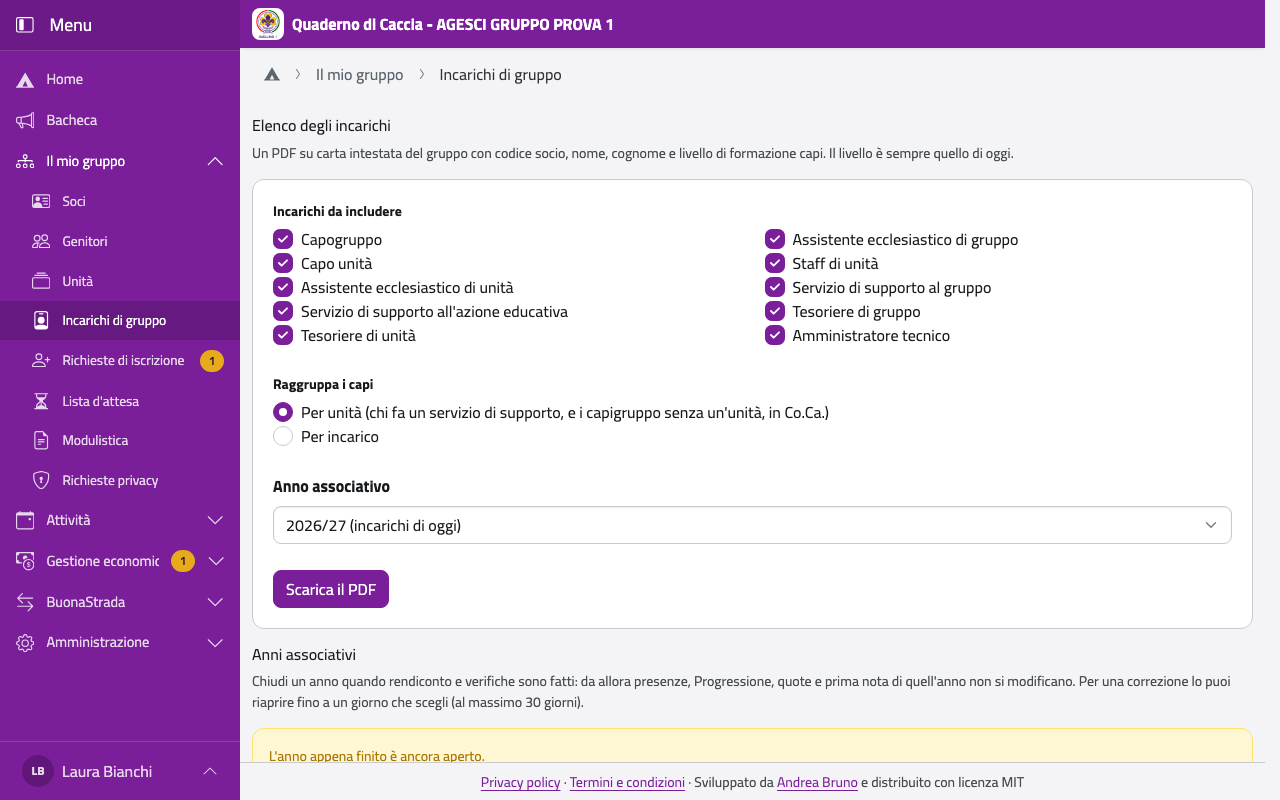
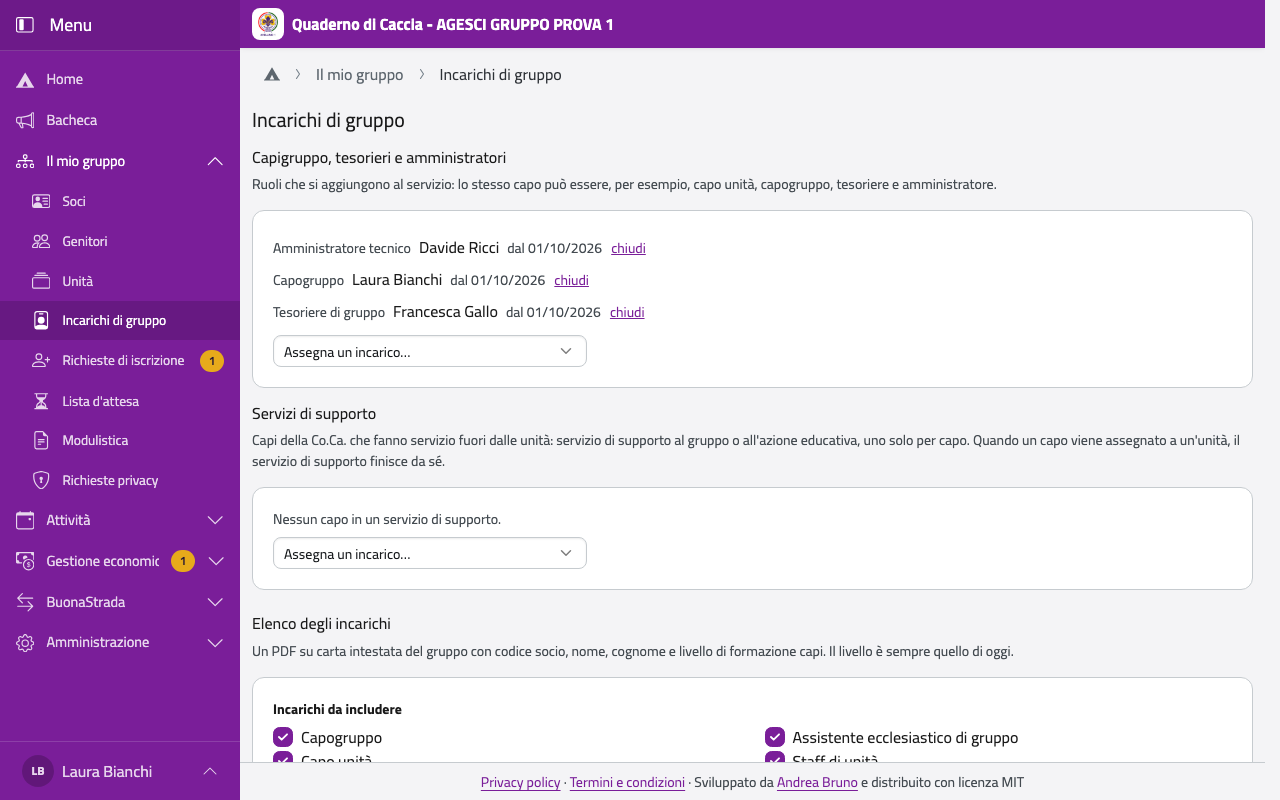
Roles list by unit: every capo in every section of their roles
Each role goes to its section, a unit's roles to the unit and the group's to the
Co.Ca., and a capo shows in every section where they hold a chosen role, with that
section's roles only; who has no service shows in the Co.Ca. too. DEC-284.

diff --git a/frontend/src/components/StampaIncarichi.vue b/frontend/src/components/StampaIncarichi.vue
@@ -56,7 +56,8 @@ const indirizzo = computed(() =>
       <div class="form-field">
         <input id="elenco-unita" v-model="raggruppa" type="radio" class="radio" value="unita" />
         <label for="elenco-unita">
-          Per unità (chi fa un servizio di supporto, e i capigruppo senza un'unità, in Co.Ca.)
+          Per unità (ogni capo in ogni unità in cui ha un incarico; gli incarichi di gruppo in
+          Co.Ca.)
         </label>
       </div>
       <div class="form-field">

diff --git a/backend/apps/organizzazione/elenco_incarichi.py b/backend/apps/organizzazione/elenco_incarichi.py
@@ -1,8 +1,8 @@
 """The list of the group's roles as PDF, for the capigruppo (DEC-284): never stored.
 
-The capigruppo choose the kinds of role and how to group the capi: by unit (the capi with
-a support service go to the Co.Ca., with the capigruppo and the group's assistente
-ecclesiastico who serve no unit) or by role. Each capo: codice socio, name, surname, training level
+The capigruppo choose the kinds of role and how to group the capi: by unit (each role in
+its unit, the group's roles in the Co.Ca.; a capo in every section of their roles) or by
+role. Each capo: codice socio, name, surname, training level
 (today's: the app keeps no history of it). Roles in force today, or at the end of a past
 associative year.
 """
@@ -23,7 +23,6 @@ from apps.core.stampa import decora_pagina, intestazione
 
 from .models import (
     INCARICHI_DI_SERVIZIO,
-    SERVIZIO_IN_UNITA,
     Gruppo,
     Incarico,
     RuoloIncarico,
@@ -116,6 +115,9 @@ def _per_incarico(scelti: list[str], incarichi: list[Incarico]) -> list[Sezione]
 
 
 def _per_unita(scelti: set[str], incarichi: list[Incarico]) -> list[Sezione]:
+    """Every role in its section: a unit's roles in that unit, the group's in the Co.Ca. A
+    capo shows in every section where they hold a chosen role, with that section's roles
+    only next to the name, even if that lists them more than once (maintainer, 03/11)."""
     per_persona: dict[int, list[Incarico]] = {}
     for incarico in sorted(incarichi, key=lambda i: RUOLI_ELENCO.index(i.ruolo)):
         per_persona.setdefault(incarico.persona_id, []).append(incarico)
@@ -124,30 +126,22 @@ def _per_unita(scelti: set[str], incarichi: list[Incarico]) -> list[Sezione]:
     coca = "coca"
     unita_di: dict[int, Unita] = {}
     for propri in per_persona.values():
-        # Shown only with at least one chosen role; next to the name only chosen roles.
-        if not any(i.ruolo in scelti for i in propri):
+        scelti_propri = [i for i in propri if i.ruolo in scelti]
+        if not scelti_propri:
             continue
-        servizi = [i for i in propri if i.ruolo in SERVIZIO_IN_UNITA]
-        aggiuntivi = [i for i in propri if i.ruolo not in SERVIZIO_IN_UNITA]
-        if servizi:
-            for unita_id in dict.fromkeys(i.unita_id for i in servizi):
-                del_servizio = [i for i in servizi if i.unita_id == unita_id]
-                unita = del_servizio[0].unita
-                unita_di[unita_id] = unita
-                etichette = [
-                    _etichetta(i, unita) for i in del_servizio + aggiuntivi if i.ruolo in scelti
-                ]
-                righe_di.setdefault(unita_id, []).append(Riga(propri[0].persona, etichette))
-        else:
-            # Capigruppo and the group's assistente ecclesiastico serving no unit, the
-            # capi with a support service (and anyone with only an additional role): the
-            # Co.Ca.
-            etichette = [_etichetta(i) for i in aggiuntivi if i.ruolo in scelti]
-            if not any(
-                i.ruolo in INCARICHI_DI_SERVIZIO | {RuoloIncarico.CAPOGRUPPO} for i in propri
-            ):
-                etichette.insert(0, SENZA_SERVIZIO)
-            righe_di.setdefault(coca, []).append(Riga(propri[0].persona, etichette))
+        persona = propri[0].persona
+        per_sezione: dict[object, list[str]] = {}
+        for i in scelti_propri:
+            if i.unita_id:
+                unita_di[i.unita_id] = i.unita
+                per_sezione.setdefault(i.unita_id, []).append(_etichetta(i, i.unita))
+            else:
+                per_sezione.setdefault(coca, []).append(_etichetta(i))
+        # No service at all (e.g. a unit treasurer only): in the Co.Ca. too (DEC-284).
+        if not any(i.ruolo in INCARICHI_DI_SERVIZIO | {RuoloIncarico.CAPOGRUPPO} for i in propri):
+            per_sezione.setdefault(coca, []).insert(0, SENZA_SERVIZIO)
+        for sezione, etichette in per_sezione.items():
+            righe_di.setdefault(sezione, []).append(Riga(persona, etichette))
 
     risultato = [
         Sezione(str(unita_di[u]), sorted(righe_di[u], key=lambda r: _ordine_persona(r.persona)))

diff --git a/backend/tests/test_elenco_incarichi.py b/backend/tests/test_elenco_incarichi.py
@@ -56,30 +56,59 @@ def _nomi(sezione):
     return [(r.persona.cognome, r.incarichi) for r in sezione.righe]
 
 
-def test_per_unita_la_coca_ha_capigruppo_senza_unita_e_capi_di_supporto(
+def test_per_unita_ogni_capo_in_ogni_sezione_dei_suoi_incarichi(
     capi, capo, capogruppo, reparto, coca
 ):
     sezioni = elenco.sezioni(TUTTI, "unita", date.today())
     assert [s.titolo for s in sezioni] == [str(reparto), str(coca)]
-    # The capogruppo serving the reparto is in the reparto, with the additional roles.
-    assert _nomi(sezioni[0]) == [
-        ("Capo", ["Capo unità"]),
-        ("Doppia", ["Staff di unità", "Capogruppo", "Tesoriere di gruppo"]),
-    ]
+    # The capogruppo serving the reparto is in both, with that section's roles only
+    # (maintainer, 03/11).
+    assert _nomi(sezioni[0]) == [("Capo", ["Capo unità"]), ("Doppia", ["Staff di unità"])]
     # The treasurer with no service shows the support service, in the PDF only.
     assert _nomi(sezioni[1]) == [
         ("Disponibile", ["Servizio di supporto al gruppo"]),
+        ("Doppia", ["Capogruppo", "Tesoriere di gruppo"]),
         ("Gruppo", ["Capogruppo"]),
         ("Tesoriera", ["Servizio di supporto al gruppo", "Tesoriere di gruppo"]),
     ]
 
 
 def test_per_unita_servizio_di_supporto_anche_se_non_scelto(capi, coca):
-    # Only the treasurers chosen: the treasurer with no service still shows it.
+    # Only the group treasurers chosen: who has no service still shows the support one.
     sezioni = elenco.sezioni({R.TESORIERE_GRUPPO}, "unita", date.today())
     assert _nomi(sezioni[-1]) == [
-        ("Tesoriera", ["Servizio di supporto al gruppo", "Tesoriere di gruppo"])
+        ("Doppia", ["Tesoriere di gruppo"]),
+        ("Tesoriera", ["Servizio di supporto al gruppo", "Tesoriere di gruppo"]),
     ]
+
+
+def test_per_unita_piu_unita_e_tesoriere_di_unita(gruppo, reparto, coca):
+    from apps.organizzazione.models import TipoUnita, Unita
+
+    branco = Unita.objects.create(
+        gruppo=gruppo, nome="Branco", tipo=TipoUnita.BRANCO, composizione=reparto.composizione
+    )
+    in_due = crea_capo("Ugo", "Doppiaunita", "ugo@example.invalid")
+    _incarico(in_due, R.STAFF, unita=reparto)
+    _incarico(in_due, R.CAPO_UNITA, unita=branco)
+    cassiere = crea_capo("Ivo", "Cassiere", "ivo@example.invalid")
+    _incarico(cassiere, R.TESORIERE_UNITA, unita=branco)
+    sezioni = {s.titolo: _nomi(s) for s in elenco.sezioni(TUTTI, "unita", date.today())}
+    # In both units; the unit treasurer with no service in the unit and in the Co.Ca.
+    assert sezioni[str(reparto)] == [("Doppiaunita", ["Staff di unità"])]
+    assert sezioni[str(branco)] == [
+        ("Cassiere", ["Tesoriere di unità"]),
+        ("Doppiaunita", ["Capo unità"]),
+    ]
+    assert sezioni[str(coca)] == [("Cassiere", ["Servizio di supporto al gruppo"])]
+
+
+def test_per_unita_capigruppo_in_coca_solo_se_scelti(capi, reparto, coca):
+    sezioni = elenco.sezioni({R.STAFF}, "unita", date.today())
+    assert [s.titolo for s in sezioni] == [str(reparto)]
+    sezioni = elenco.sezioni({R.STAFF, R.CAPOGRUPPO}, "unita", date.today())
+    assert [s.titolo for s in sezioni] == [str(reparto), str(coca)]
+    assert _nomi(sezioni[1]) == [("Doppia", ["Capogruppo"]), ("Gruppo", ["Capogruppo"])]
 
 
 def test_per_unita_solo_gli_incarichi_scelti(capi, reparto):

diff --git a/docs/analisi/analisi-requisiti.md b/docs/analisi/analisi-requisiti.md
@@ -416,7 +416,7 @@ Decisa con il maintainer il 31/10/2026: chi vuole entrare nel gruppo si mette in
 | DEC-281 | **Assistenti ecclesiastici**: due incarichi nuovi. L'**Assistente ecclesiastico di gruppo** è un incarico di gruppo, lo nominano i capigruppo, e ha i poteri di un capogruppo in ogni controllo (anche chiusura dell'anno, diritti degli interessati, impersonazione, nomine). L'**Assistente ecclesiastico di unità** è un incarico di servizio in un'unità, lo nominano il capo unità e i capigruppo, e vale come lo staff dell'unità. Entrambi spettano a un capo; BuonaStrada non esporta gli incarichi, quindi si inseriscono nell'app. Le email dirette ai capigruppo (riepiloghi, promemoria) restano ai capigruppo. | DEC-09, DEC-10, DEC-165, 02/11 |
 | DEC-282 | **Un genitore che diventa capo**: un capogruppo, dalla scheda del genitore, gli manda per email un link personale di iscrizione in Comunità capi (valido 30 giorni come quello della lista d'attesa, DEC-261), con già compilati i dati che l'app ha di lui: nome, cognome, data e comune di nascita, sesso, codice fiscale, indirizzo, cellulare, email. Il link vale solo per quel codice fiscale. La richiesta prosegue come le altre (DEC-120…DEC-127); accolta, il genitore entra in Comunità capi con la sua stessa scheda e resta genitore dei figli. Non vale per chi è già in Comunità capi né per chi non ha un'email. | DEC-120…DEC-127, DEC-261, 02/11 |
 | DEC-283 | **Banner per installare l'app**: su ogni browser che può installare la PWA (Chrome, Edge e Samsung Internet con il loro pulsante «Installa»; iPhone e iPad con le istruzioni di Condividi → Aggiungi alla schermata Home; Safari sul Mac con Archivio → Aggiungi al Dock; Firefox su Android con il menu → Installa) compare un banner, prima e dopo l'accesso. Non compare quando l'app è già aperta dalla sua icona. Si può chiudere: la chiusura si ricorda nel browser (solo la data, come il banner dei cookie, DEC-266) e dopo `QDC_BANNER_INSTALLAZIONE_GIORNI` giorni (di base 14, in `.env`) il banner può ricomparire. | DEC-105, DEC-266, 02/11 |
-| DEC-284 | **Elenco degli incarichi in PDF**, su carta intestata del gruppo (DEC-192), solo per i capigruppo. Si scelgono i tipi di incarico da includere e il raggruppamento: **per unità** (chi è a disposizione va in Co.Ca.; la Co.Ca. contiene solo i capigruppo e gli assistenti ecclesiastici di gruppo senza incarichi in un'unità, più i capi a disposizione; accanto al nome gli incarichi aggiuntivi, se il loro tipo è tra quelli scelti) oppure **per incarico**. Per ogni capo: codice socio, nome, cognome, livello di formazione capi; nessun contatto. Di base gli incarichi in corso oggi; scelto un anno associativo passato, quelli attivi alla sua fine (30 settembre). Il livello di formazione è sempre quello di oggi: l'app non ne tiene la storia. | DEC-165, DEC-192, DEC-281, 02/11 |
+| DEC-284 | **Elenco degli incarichi in PDF**, su carta intestata del gruppo (DEC-192), solo per i capigruppo. Si scelgono i tipi di incarico da includere e il raggruppamento: **per unità** (chi è a disposizione va in Co.Ca.; la Co.Ca. contiene solo i capigruppo e gli assistenti ecclesiastici di gruppo senza incarichi in un'unità, più i capi a disposizione; accanto al nome gli incarichi aggiuntivi, se il loro tipo è tra quelli scelti) oppure **per incarico**. Per ogni capo: codice socio, nome, cognome, livello di formazione capi; nessun contatto. Di base gli incarichi in corso oggi; scelto un anno associativo passato, quelli attivi alla sua fine (30 settembre). Il livello di formazione è sempre quello di oggi: l'app non ne tiene la storia. Precisato il 03/11: per unità ogni incarico sta nella sua sezione (quelli di unità nell'unità, quelli di gruppo in Co.Ca.); un capo compare in ogni sezione in cui ha un incarico scelto, anche più volte, con accanto al nome solo gli incarichi di quella sezione; chi non ha incarichi di servizio compare anche in Co.Ca. con «Servizio di supporto al gruppo» (DEC-293). | DEC-165, DEC-192, DEC-281, 02/11 |
 | DEC-285 | **Home a gruppi richiudibili**: ogni gruppo di voci della Home si apre e si chiude dal suo titolo; al più uno è aperto, e aprirne uno chiude gli altri. Bacheca e Calendario restano sempre visibili. L'app ricorda nel browser quale gruppo era aperto (solo il nome del gruppo, nessun dato personale); la prima volta sono tutti chiusi. Un gruppo chiuso mostra sul titolo il totale dei contatori delle sue voci. | DEC-241, 02/11 |
 | DEC-286 | **Calendario**: una pagina, accanto alla Bacheca nella Home e nel menu tra gli eventi, con gli eventi propri e dei figli, a scelta come mese o come elenco dei prossimi; un capo sceglie fra le tre viste di DEC-143. Si scarica il file del calendario (tutti gli eventi della vista) o di un singolo evento, anche dalla sua pagina; il link personale per abbonarsi (DEC-143) sta in questa pagina. Il browser ricorda la scelta mese o elenco e la vista. Per ora solo online. | DEC-79, DEC-143, 02/11 |
 | DEC-287 | **Percorso scout** nella scheda di ogni socio attivo: i periodi da ragazzo e da capo, uno per riga con unità e anni, e l'anno di ingresso nel gruppo. Lo vedono i capi, la persona stessa e i genitori di un minore. Gli anni in altri gruppi presenti nell'esportazione si importano come testo (gruppo e unità), senza creare unità di altri gruppi: supera la parte di DEC-271 che non importava le righe di altri gruppi. Il percorso si completa a mano (il capo per sé, i capigruppo per tutti), con periodi segnati come ricostruiti; anche gli anni di servizio ricostruiti (DEC-207) indicano il gruppo, testo libero, vuoto per il nostro. Il percorso va con il fascicolo trasferito (DEC-213): per chi lo riceve gli anni nel gruppo di provenienza diventano anni in un altro gruppo, e si saltano i periodi che ha già (stesso gruppo, anni e ruolo) e quelli nel suo stesso gruppo; al rientro dall'archivio (DEC-215) tornano solo gli anni in altri gruppi e quelli ricostruiti (03/11). | DEC-206, DEC-207, DEC-213, DEC-271, 02/11 |

diff --git a/TODO.md b/TODO.md
@@ -79,6 +79,25 @@ Intanto, per il maintainer: sbloccare con il PIN; in Password di Apple cancellar
 passkey di qdc.avellino1.it e, se serve entrare con la passkey, crearne una sola di accesso
 da Dispositivi (non fa sbloccare l'app finché N.27 non è sviluppata).
 
+#### N.28 — Elenco degli incarichi per unità: ogni capo in ogni sezione dei suoi incarichi ✅ 03/11
+
+Fatto con test (`elenco_incarichi._per_unita`); DEC-284 precisato nell'analisi; manuale e schermate aggiornati.
+
+Rif. DEC-284, DEC-293. Chiarimento del maintainer (03/11, sul PDF della 1.6.0): nel raggruppamento
+per unità la Co.Ca. deve esserci con i capigruppo e l'AE di gruppo anche se fanno servizio in
+un'unità; chi ha incarichi in più unità compare in più unità, anche se così compare più volte.
+Deciso il 03/11:
+
+1. ogni incarico ha la sua sezione: quelli di unità nella loro unità (capo unità, staff, AE di
+   unità, tesoriere di unità), quelli di gruppo in Co.Ca. (capogruppo, AE di gruppo, tesoriere
+   di gruppo, amministratore, servizi di supporto); un capo compare in ogni sezione in cui ha un
+   incarico tra i tipi scelti;
+2. accanto al nome, in ogni sezione, solo gli incarichi di quella sezione;
+3. capigruppo e AE di gruppo in Co.Ca. solo se il loro tipo è scelto per la stampa;
+4. chi non ha incarichi di servizio (per esempio un tesoriere di unità) compare nella sua unità
+   e anche in Co.Ca. con «Servizio di supporto al gruppo» (N.22);
+5. sviluppo subito e release 1.6.1.
+
 ### Fatto nel giro del 03/11
 
 Il maintainer ha dato il via il 03/11. Ordine: N.25 con N.22 (stesso codice), N.21, N.20,

diff --git a/docs/manuale/gruppo/organizzazione.md b/docs/manuale/gruppo/organizzazione.md
@@ -73,11 +73,13 @@ intestata del gruppo con codice socio, cognome, nome e livello di formazione cap
 capo.
 
 1. Spunta gli **Incarichi da includere** (di base ci sono tutti).
-2. Scegli come raggruppare i capi: **Per unità** (chi fa un servizio di supporto, e i
-   capigruppo e l'assistente ecclesiastico di gruppo senza un'unità, vanno in Comunità capi;
-   accanto al nome gli altri incarichi spuntati, per esempio tesoriere; un capo che ha solo
-   un incarico come tesoriere, senza servizio, compare con «Servizio di supporto al
-   gruppo») o **Per incarico**.
+2. Scegli come raggruppare i capi: **Per unità** o **Per incarico**. Per unità, ogni
+   incarico sta nella sua sezione: quelli di un'unità nell'unità, quelli di gruppo
+   (capogruppo, assistente ecclesiastico di gruppo, tesoriere di gruppo, amministratore,
+   servizi di supporto) in Comunità capi. Un capo compare in ogni sezione in cui ha un
+   incarico spuntato, anche più volte, e accanto al nome ha gli incarichi di quella sezione.
+   Un capo senza servizio, per esempio un tesoriere, compare anche in Comunità capi con
+   «Servizio di supporto al gruppo».
 3. Scegli l'**Anno associativo**: quello in corso dà gli incarichi di oggi; un anno passato
    quelli che erano in corso alla sua fine, il 30 settembre.
 4. Tocca **Scarica il PDF**.
